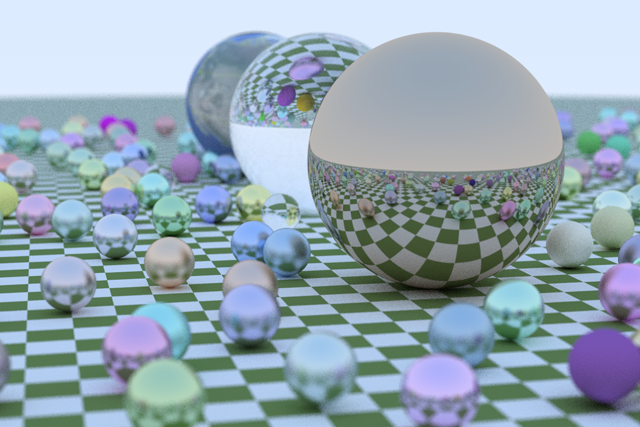
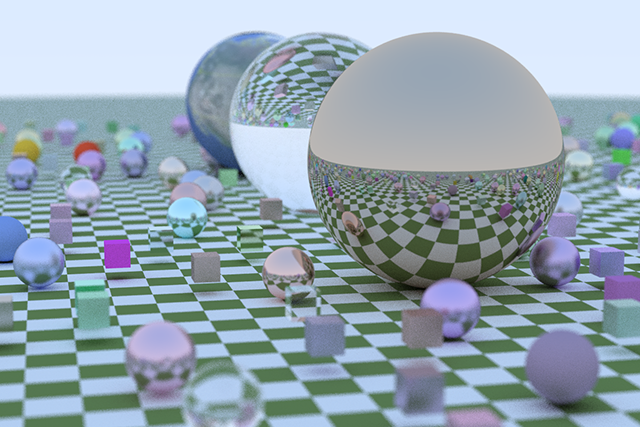
add boxes and rects, and new sample image

diff --git a/src/main/kotlin/net/time4tea/raytrace/AARect.kt b/src/main/kotlin/net/time4tea/raytrace/AARect.kt
@@ -1,0 +1,125 @@
+package net.time4tea.raytrace
+
+class XY_Rect(
+    private val x0: Float,
+    private val x1: Float,
+    private val y0: Float,
+    private val y1: Float,
+    private val k: Float,
+    private val material: Material
+) : Hitable {
+    override fun hit(ray: Ray, min: Float, max: Float): Hit? {
+        val origin = ray.origin()
+        val direction = ray.direction()
+
+        val t = (k - origin.z()) / direction.z()
+        if (t < min || t > max)
+            return null
+
+        val x = origin.x() + t * direction.x()
+        val y = origin.y() + t * direction.y()
+
+        if (x < x0 || x > x1 || y < y0 || y > y1)
+            return null
+
+        return Hit(
+            t,
+            (x - x0) / (x1 - x0),
+            (y - y0) / (y1 - y0),
+            ray.point_at_parameter(t),
+            Vec3(0.0, 0.0, 1.0),
+            material
+        )
+    }
+
+    private val box = AABB(
+        Vec3(x0, y0, k - 0.0001f),
+        Vec3(x1, y1, k + 0.0001f)
+    )
+
+    override fun bbox(): AABB? {
+        return box
+    }
+
+    override fun components(): Int = 1
+}
+
+class XZ_Rect(
+    private val x0: Float,
+    private val x1: Float,
+    private val z0: Float,
+    private val z1: Float,
+    private val k: Float,
+    private val material: Material
+) : Hitable {
+    override fun hit(ray: Ray, min: Float, max: Float): Hit? {
+        val t = (k - ray.origin().y()) / ray.direction().y()
+        if (t < min || t > max)
+            return null
+
+        val x = ray.origin().x() + t * ray.direction().x()
+        val z = ray.origin().z() + t * ray.direction().z()
+        if (x < x0 || x > x1 || z < z0 || z > z1)
+            return null
+
+        return Hit(
+            t,
+            (x - x0) / (x1 - x0),
+            (z - z0) / (z1 - z0),
+            ray.point_at_parameter(t),
+            Vec3(0.0, 1.0, 0.0),
+            material
+        )
+    }
+
+    private val box = AABB(
+        Vec3(x0, k - 0.0001f, z0),
+        Vec3(x1, k + 0.0001f, z1)
+    )
+
+    override fun bbox(): AABB? {
+        return box
+    }
+
+    override fun components(): Int = 1
+}
+
+class YZ_Rect(
+    private val y0: Float,
+    private val y1: Float,
+    private val z0: Float,
+    private val z1: Float,
+    private val k: Float,
+    private val material: Material
+) : Hitable {
+    override fun hit(ray: Ray, min: Float, max: Float): Hit? {
+        val t = (k - ray.origin().x()) / ray.direction().x()
+        if (t < min || t > max)
+            return null
+        val y = ray.origin().y() + t * ray.direction().y()
+        val z = ray.origin().z() + t * ray.direction().z()
+        if (y < y0 || y > y1 || z < z0 || z > z1)
+            return null
+
+        return Hit(
+            t,
+            (y - y0) / (y1 - y0),
+            (z - z0) / (z1 - z0),
+            ray.point_at_parameter(t),
+            Vec3(1.0, 0.0, 0.0),
+            material
+        )
+    }
+
+    private val box = AABB(
+        Vec3(k - 0.0001f, y0, z0),
+        Vec3(k + 0.0001f, y1, z1)
+    )
+
+    override fun bbox(): AABB? {
+        return box
+    }
+
+    override fun components(): Int = 1
+}
+

diff --git a/src/main/kotlin/net/time4tea/raytrace/Box.kt b/src/main/kotlin/net/time4tea/raytrace/Box.kt
@@ -1,0 +1,25 @@
+package net.time4tea.raytrace
+
+class Box(p0: Vec3, p1: Vec3, ptr: Material) : Hitable {
+
+    private val components = HitableList(
+        listOf(
+            XY_Rect(p0.x(), p1.x(), p0.y(), p1.y(), p1.z(), ptr),
+            FlipNormals(XY_Rect(p0.x(), p1.x(), p0.y(), p1.y(), p0.z(), ptr)),
+            XZ_Rect(p0.x(), p1.x(), p0.z(), p1.z(), p1.y(), ptr),
+            FlipNormals(XZ_Rect(p0.x(), p1.x(), p0.z(), p1.z(), p0.y(), ptr)),
+            YZ_Rect(p0.y(), p1.y(), p0.z(), p1.z(), p1.x(), ptr),
+            FlipNormals(YZ_Rect(p0.y(), p1.y(), p0.z(), p1.z(), p0.x(), ptr))
+        )
+    )
+
+    private val box = AABB(p0, p1)
+
+    override fun hit(ray: Ray, min: Float, max: Float): Hit? = components.hit(ray, min, max)
+
+    override fun bbox(): AABB? = box
+
+    override fun components(): Int {
+        return components.components()
+    }
+}

diff --git a/src/main/kotlin/net/time4tea/raytrace/RaytraceKt.kt b/src/main/kotlin/net/time4tea/raytrace/RaytraceKt.kt
@@ -13,6 +13,7 @@ import javax.swing.JLabel
 import javax.swing.Timer
 import kotlin.random.Random
 
+
 interface Display {
     fun size(): Dimension
     fun plot(x: Int, y: Int, colour: Vec3)
@@ -77,11 +78,15 @@ fun random_scene(): List<Hitable> {
                     else -> Dielectric(1.5f)
                 }
 
-                list.add(Sphere(centre, 0.2f, material))
+                val item = when (Random.nextInt(2)) {
+                    0 -> Sphere(centre, 0.2f, material)
+                    else -> Box(centre - Vec3(0.1, 0.1, 0.1), centre + Vec3(0.1, 0.1, 0.1), material)
+                }
+                list.add(item)
             }
         }
     }
-    return list//.map { MetricHitable(Metrics.globalRegistry, it)}
+    return list
 }
 
 fun main() {

diff --git a/src/main/kotlin/net/time4tea/raytrace/Hitable.kt b/src/main/kotlin/net/time4tea/raytrace/Hitable.kt
@@ -35,3 +35,15 @@ class HitableList(private val items: List<Hitable>) : Hitable {
         return box
     }
 }
+
+class FlipNormals(private val delegate: Hitable): Hitable {
+    override fun hit(ray: Ray, min: Float, max: Float): Hit? {
+        return delegate.hit(ray, min, max)?.let {
+            it.copy(normal = -it.normal)
+        }
+    }
+
+    override fun bbox(): AABB? = delegate.bbox()
+
+    override fun components(): Int = delegate.components()
+}
